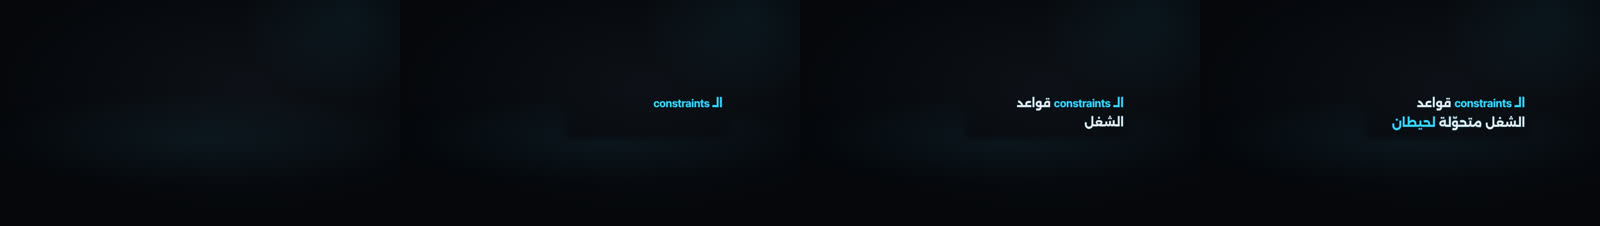
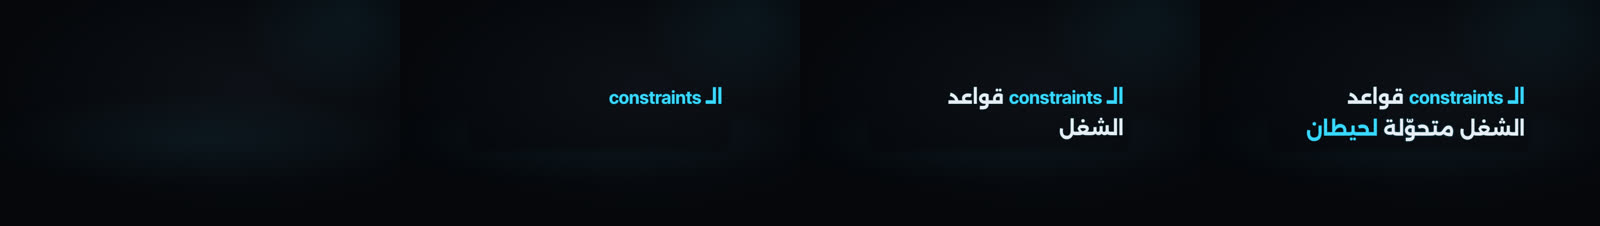
P7 typeui: KineticPhrase finished (kinetic size demo; snap PASS det 0 qa 0, baselines pending-critic; perf lite 0.114 / standard 0.153 / hero 0.145 box s/frame; Arabic QA PASS)
Claude-Session: https://claude.ai/code/session_01VrU9wxU8GmuhdhWAAHnnQ8

Changed region(s): [[0.8125, 0.3717, 0.9688, 0.6195], [0.5938, 0.3717, 0.7188, 0.6195], [0.375, 0.3717, 0.4688, 0.4956]]

diff --git a/studio/src/demos/type-ui.tsx b/studio/src/demos/type-ui.tsx
@@ -65,7 +65,7 @@ const demos: DemoModule = {
               id: 'walls',
               slot: 'center',
               lines: 2,
-              size: 'sub',
+              size: 'kinetic',
               words: [
                 {text: 'الـconstraints', at: {word: W('KineticPhrase', 1), lead_frames: 2}, emphasis: 'term'},
                 {text: 'قواعد', at: {word: W('KineticPhrase', 2), lead_frames: 2}},
